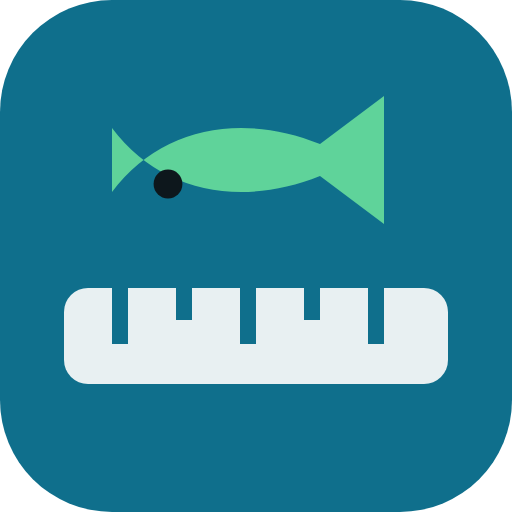
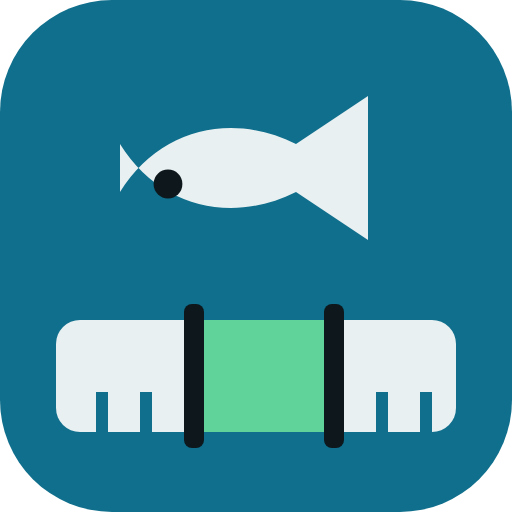
Rebrand to SlotGauge (slotgauge.com)
Rename service, images, service accounts and storage keys; add slot-gauge
icon, wordmarks, OG image and social meta; canonical slotgauge.com.

Claude-Session: https://claude.ai/code/session_01PfhL3LsquTkwFN55bmRkKP

diff --git a/public/index.html b/public/index.html
@@ -3,15 +3,24 @@
 <head>
 <meta charset="utf-8">
 <meta name="viewport" content="width=device-width, initial-scale=1, viewport-fit=cover">
-<meta name="description" content="Say what you caught and where. KeepGauge checks Delaware season, size, and daily limits and tells you keep or release.">
+<meta name="description" content="Say what you caught. Know if it's a keeper. SlotGauge checks your fish against Delaware season, size, and daily limits.">
+<link rel="canonical" href="https://slotgauge.com/">
+<meta property="og:type" content="website">
+<meta property="og:site_name" content="SlotGauge">
+<meta property="og:title" content="SlotGauge">
+<meta property="og:description" content="Say what you caught. Know if it's a keeper. Delaware season, size, and daily limits in one check.">
+<meta property="og:url" content="https://slotgauge.com/">
+<meta property="og:image" content="https://slotgauge.com/og.png">
+<meta property="og:image:width" content="1200"><meta property="og:image:height" content="630">
+<meta name="twitter:card" content="summary_large_image">
 <meta name="theme-color" content="#0f6f8c" media="(prefers-color-scheme: light)">
 <meta name="theme-color" content="#0d171c" media="(prefers-color-scheme: dark)">
 <meta name="apple-mobile-web-app-capable" content="yes">
-<meta name="apple-mobile-web-app-title" content="KeepGauge">
+<meta name="apple-mobile-web-app-title" content="SlotGauge">
 <link rel="manifest" href="/manifest.webmanifest">
 <link rel="icon" href="/icon.svg" type="image/svg+xml">
-<link rel="apple-touch-icon" href="/icon-192.png">
-<title>KeepGauge</title>
+<link rel="apple-touch-icon" href="/apple-touch-icon.png">
+<title>SlotGauge</title>
 <link rel="stylesheet" href="https://fonts.googleapis.com/css2?family=Barlow+Condensed:wght@500;600;700&family=IBM+Plex+Sans:wght@400;500;600&family=IBM+Plex+Mono:wght@500&display=swap">
 <style>
 :root{
@@ -112,7 +121,7 @@ html,body{margin:0}
 
 <div class="wrap">
 <header>
-  <h1>KeepGauge<small>Delaware</small></h1>
+  <h1><img src="/icon.svg" alt="" width="28" height="28" style="vertical-align:-4px;margin-right:8px">Slot<span style="color:var(--accent)">Gauge</span><small>Delaware</small></h1>
   <span class="eyebrow" id="today"></span>
 </header>
 
@@ -146,8 +155,8 @@ html,body{margin:0}
 
 <script>
 async function loadRegs(){
-  try { const r = await fetch('/api/regs'); if (!r.ok) throw new Error(r.status); const j = await r.json(); try{ localStorage.setItem('kg.regs', JSON.stringify(j)); }catch(e){} return j; }
-  catch(e){ try { const c = localStorage.getItem('kg.regs'); if (c) { document.querySelector('#offline').hidden=false; return JSON.parse(c); } } catch(_){} throw e; }
+  try { const r = await fetch('/api/regs'); if (!r.ok) throw new Error(r.status); const j = await r.json(); try{ localStorage.setItem('sg.regs', JSON.stringify(j)); }catch(e){} return j; }
+  catch(e){ try { const c = localStorage.getItem('sg.regs'); if (c) { document.querySelector('#offline').hidden=false; return JSON.parse(c); } } catch(_){} throw e; }
 }
 if ('serviceWorker' in navigator) navigator.serviceWorker.register('/sw.js').catch(()=>{});
 loadRegs().then(initApp).catch(err => { document.querySelector('#out').innerHTML = '<div class="picker"><h3>Could not load regulations</h3><p>'+String(err.message||err)+'. Check your connection and reload.</p></div>'; });
@@ -310,9 +319,9 @@ function ruler(r){
   const mins = r.rules.map(x=>x.min).filter(x=>x!=null), maxs = r.rules.map(x=>x.max).filter(x=>x!=null);
   const lo = Math.max(0, Math.floor(Math.min(...mins, ...maxs, r.length??Infinity)/5)*5 - 5);
   const hi = Math.ceil(Math.max(...mins, ...maxs, (r.length??0))/5)*5 + 5;
-  const px = v => (4+(v-lo)/(hi-lo)*92).toFixed(2)+'%';
+  const px = v => (5+(v-lo)/(hi-lo)*90).toFixed(2)+'%';
   let h = '<div class="ruler" aria-hidden="true">';
-  for (const x of r.rules) { const a=x.min??lo, b=x.max??hi; h += `<div class="legal" style="left:${px(a)};width:${((b-a)/(hi-lo)*92).toFixed(2)}%"></div>`; }
+  for (const x of r.rules) { const a=x.min??lo, b=x.max??hi; h += `<div class="legal" style="left:${px(a)};width:${((b-a)/(hi-lo)*90).toFixed(2)}%"></div>`; }
   const step = (hi-lo)>40?10:5;
   for (let v=lo; v<=hi; v+=step) h += `<div class="tick major" style="left:${px(v)}"></div><div class="lbl" style="left:${px(v)}">${v}</div>`;
   if (r.length!=null) h += `<div class="you" style="left:${px(r.length)}" data-l="${fmtIn(r.length)}″"></div>`;
@@ -372,10 +381,10 @@ $('#q').addEventListener('keydown', e=>{ if (e.key==='Enter' && !e.shiftKey) { e
 $('#q').addEventListener('input', e=>{ e.target.style.height='auto'; e.target.style.height=Math.min(120,e.target.scrollHeight)+'px'; });
 
 // ---------- recent (per-device convenience) ----------
-function loadRecent(){ try { return JSON.parse(localStorage.getItem('kg.recent')||'[]'); } catch(e){ return []; } }
+function loadRecent(){ try { return JSON.parse(localStorage.getItem('sg.recent')||'[]'); } catch(e){ return []; } }
 function remember(item){
   let list = loadRecent().filter(x=>x.text!==item.text); list.unshift(item); list = list.slice(0,6);
-  try { localStorage.setItem('kg.recent', JSON.stringify(list)); } catch(e){}
+  try { localStorage.setItem('sg.recent', JSON.stringify(list)); } catch(e){}
   drawRecent(list);
 }
 function drawRecent(list){

diff --git a/public/sw.js b/public/sw.js
@@ -1,6 +1,6 @@
 // Minimal offline cache: app shell + last good copy of the regs.
-const SHELL = 'kg-shell-v1';
-const ASSETS = ['/', '/index.html', '/manifest.webmanifest', '/icon.svg'];
+const SHELL = 'sg-shell-v1';
+const ASSETS = ['/', '/index.html', '/manifest.webmanifest', '/icon.svg', '/icon-192.png'];
 self.addEventListener('install', (e) => { e.waitUntil(caches.open(SHELL).then((c) => c.addAll(ASSETS))); self.skipWaiting(); });
 self.addEventListener('activate', (e) => { e.waitUntil(caches.keys().then((ks) => Promise.all(ks.filter((k) => k !== SHELL).map((k) => caches.delete(k))))); self.clients.claim(); });
 self.addEventListener('fetch', (e) => {

diff --git a/src/scraper.js b/src/scraper.js
@@ -8,7 +8,7 @@ export const HABITATS = { 1: 'freshwater', 2: 'saltwater', 3: 'shellfish' };
 const clean = (s) => (s || '').replace(/\s+/g, ' ').trim();
 
 async function get(url, fetchImpl) {
-  const r = await fetchImpl(url, { headers: { 'user-agent': 'fishkeepr-scraper (+github.com/gfullwoo/fishkeepr)' } });
+  const r = await fetchImpl(url, { headers: { 'user-agent': 'slotgauge-scraper (+github.com/gfullwoo/slotgauge)' } });
   if (!r.ok) throw new Error(`${r.status} ${url}`);
   return r.text();
 }

diff --git a/server.js b/server.js
@@ -39,7 +39,7 @@ export function createApp() {
 }
 
 if (process.argv[1] === fileURLToPath(import.meta.url)) {
-  createApp().listen(PORT, () => console.log(`fishkeepr listening on :${PORT}`));
+  createApp().listen(PORT, () => console.log(`slotgauge listening on :${PORT}`));
 }
 
 export { loadJson };

diff --git a/test/regs.test.js b/test/regs.test.js
@@ -69,5 +69,5 @@ test('GET /api/regs and /healthz', async () => {
   assert.equal(again.status, 304);
   const idx = await request(app).get('/');
   assert.equal(idx.status, 200);
-  assert.match(idx.text, /KeepGauge/);
+  assert.match(idx.text, /SlotGauge/);
 });

diff --git a/README.md b/README.md
@@ -1,6 +1,6 @@
-# KeepGauge (fishkeepr)
+# SlotGauge
 
-Keep or release? Describe a fish by voice or text ("30 inch striper in the bay", "my 5th sea bass, 13 inches") and KeepGauge checks it against the current Delaware season, size, and daily limits and gives a verdict with the source.
+Keep or release? Describe a fish by voice or text ("30 inch striper in the bay", "my 5th sea bass, 13 inches") and SlotGauge checks it against the current Delaware season, size, and daily limits and gives a verdict with the source.
 
 Regulations come only from the official state source, the DNREC Fish Facts species pages (https://fishspecies.dnrec.delaware.gov/), re-scraped nightly.
 
@@ -46,10 +46,10 @@ npm run review       # list species whose DNREC text no longer matches the revie
 
 `main` deploys to Cloud Run via GitHub Actions using Workload Identity Federation (no JSON keys).
 
-1. `PROJECT_ID=keepgauge-prod BILLING_ACCOUNT=… ./infra/setup-gcp.sh` (needs `gcloud` logged in as project creator). It creates the project, enables APIs, creates the Artifact Registry repo, the deploy and runtime service accounts, and the WIF pool/provider restricted to this repo, then prints four values.
+1. `PROJECT_ID=slotgauge-prod BILLING_ACCOUNT=… ./infra/setup-gcp.sh` (needs `gcloud` logged in as project creator). It creates the project, enables APIs, creates the Artifact Registry repo, the deploy and runtime service accounts, and the WIF pool/provider restricted to this repo, then prints four values.
 2. Add those as repository **variables**: `GCP_PROJECT_ID`, `GCP_REGION`, `GCP_WIF_PROVIDER`, `GCP_DEPLOY_SA`. Create a `production` environment (optional: require a reviewer).
 3. Push to `main`. The workflow runs tests, builds the image, pushes to Artifact Registry, deploys to Cloud Run (scale-to-zero, 256Mi), and smoke-tests `/healthz`.
-4. Custom domain: `gcloud beta run domain-mappings create --service keepgauge --domain keepgauge.com --region us-east4` and add the DNS records it prints.
+4. Custom domain: `gcloud beta run domain-mappings create --service slotgauge --domain slotgauge.com --region us-east4` and add the DNS records it prints.
 
 Cost at hobby traffic is effectively $0 (Cloud Run free tier; Artifact Registry a few cents).
 
